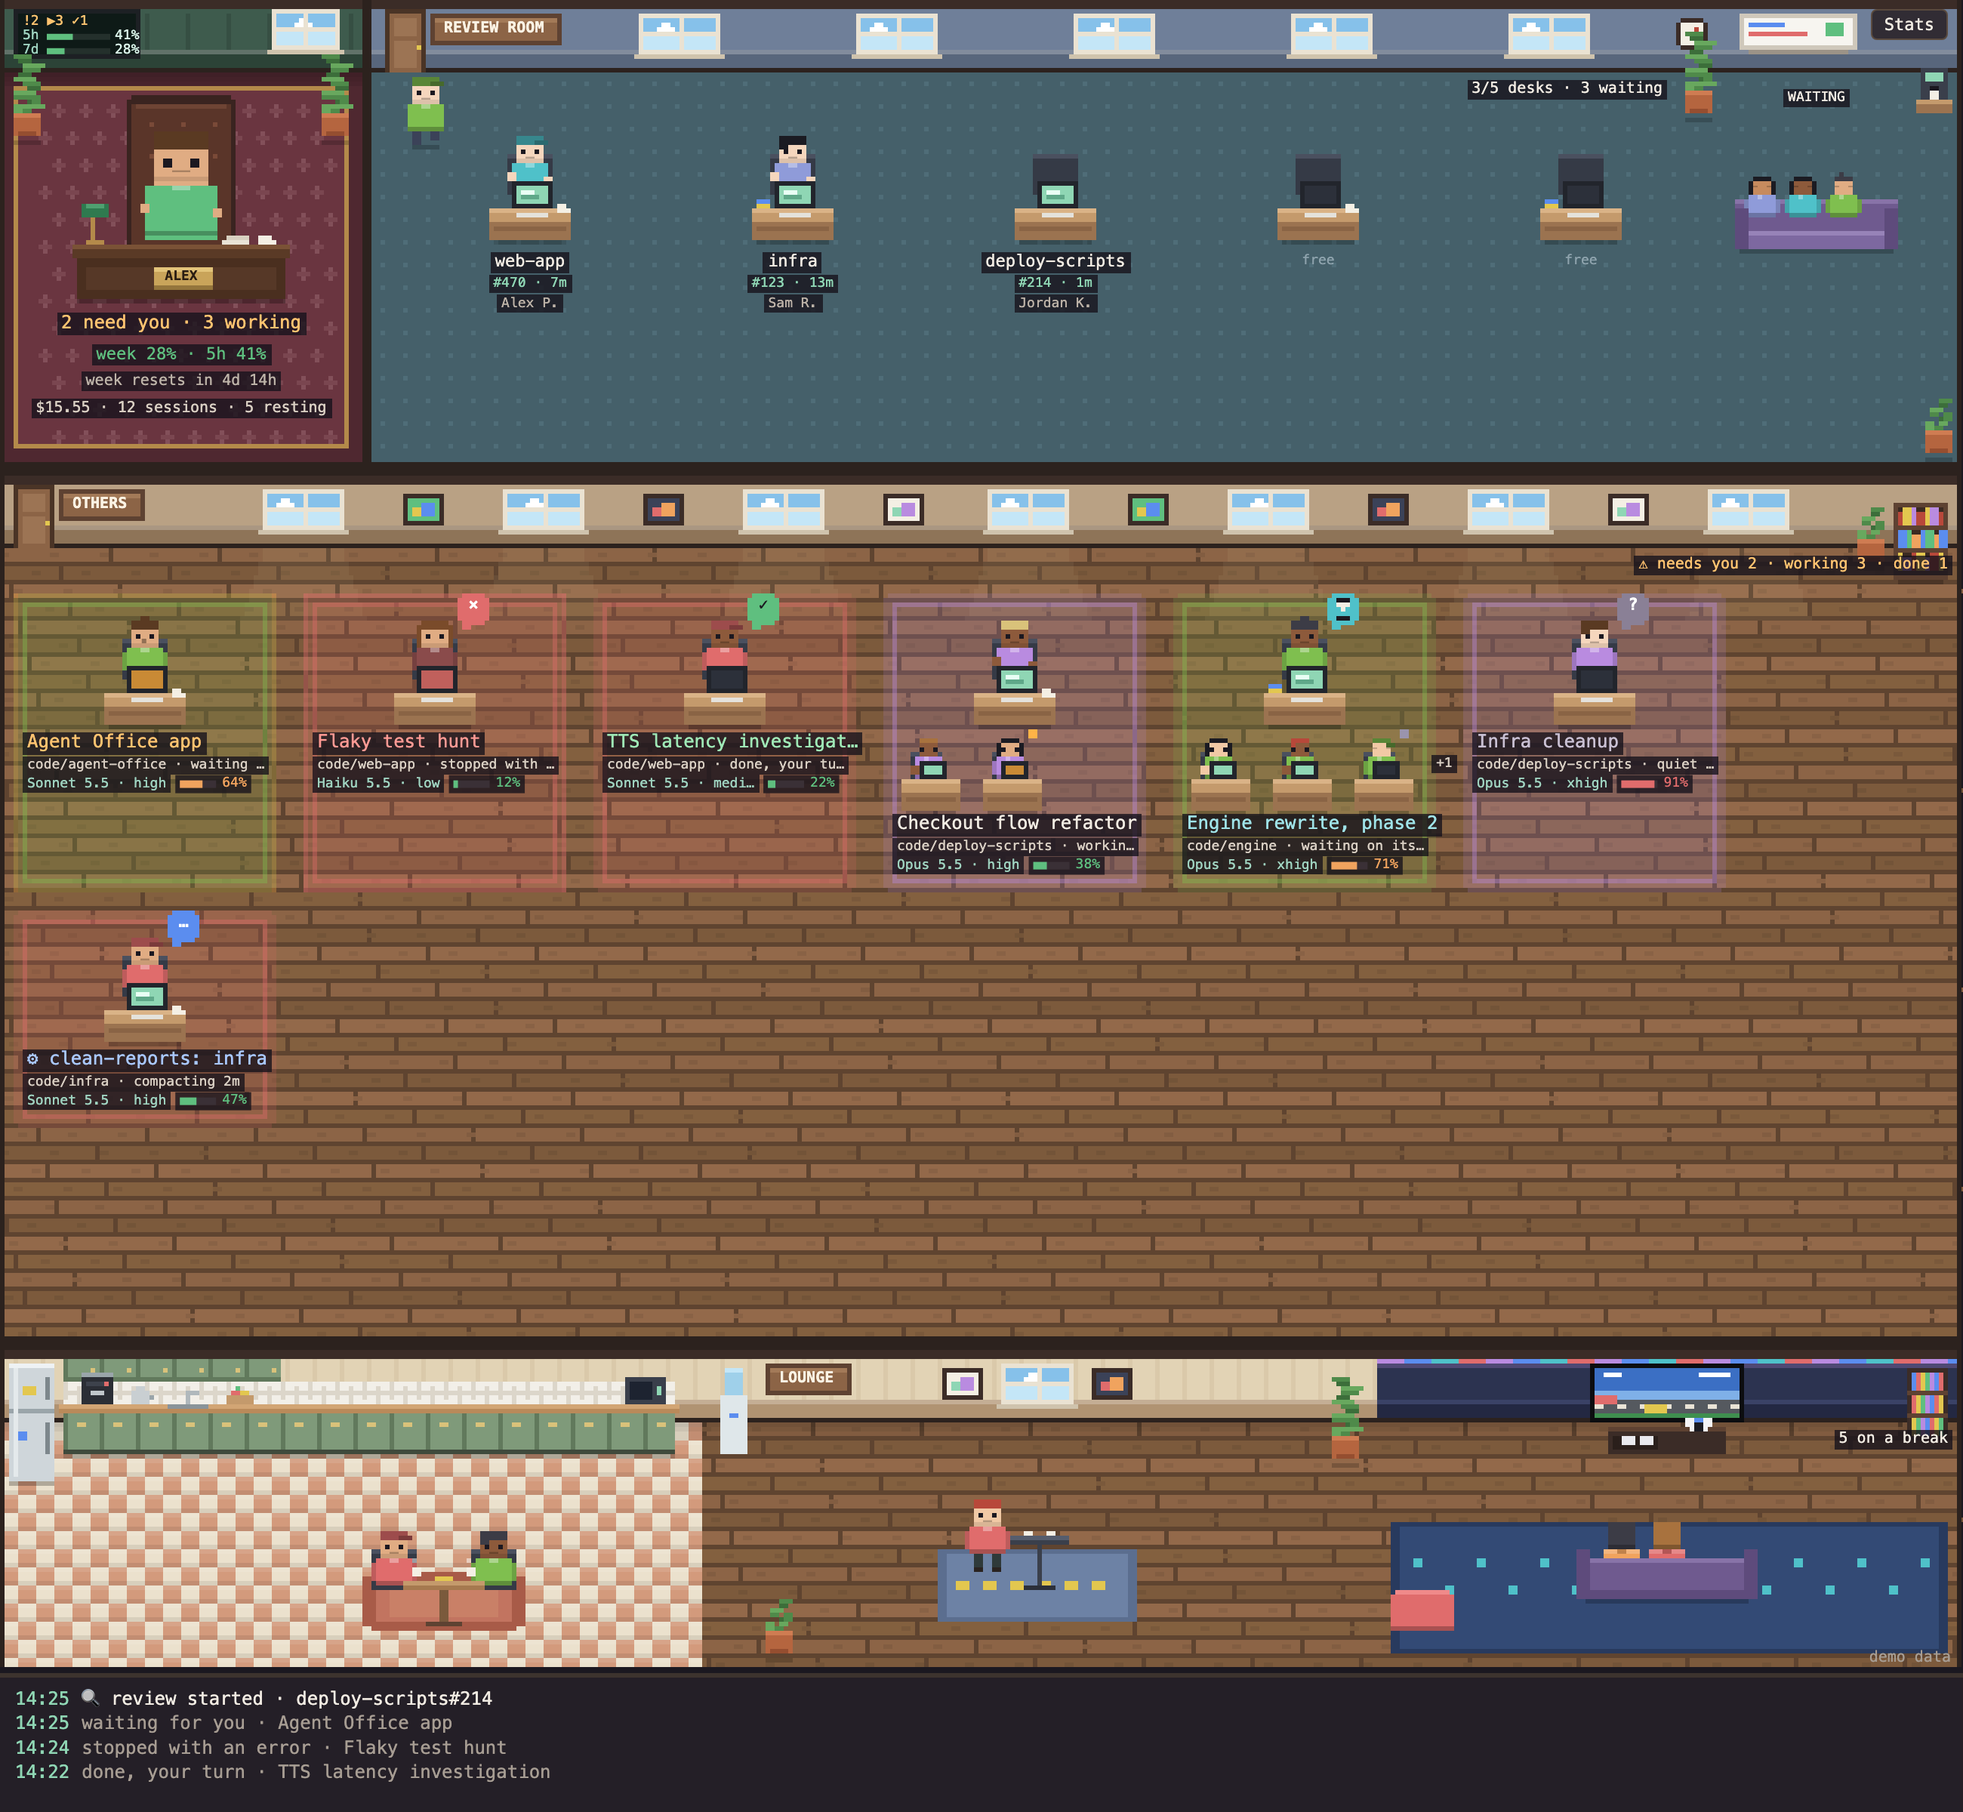
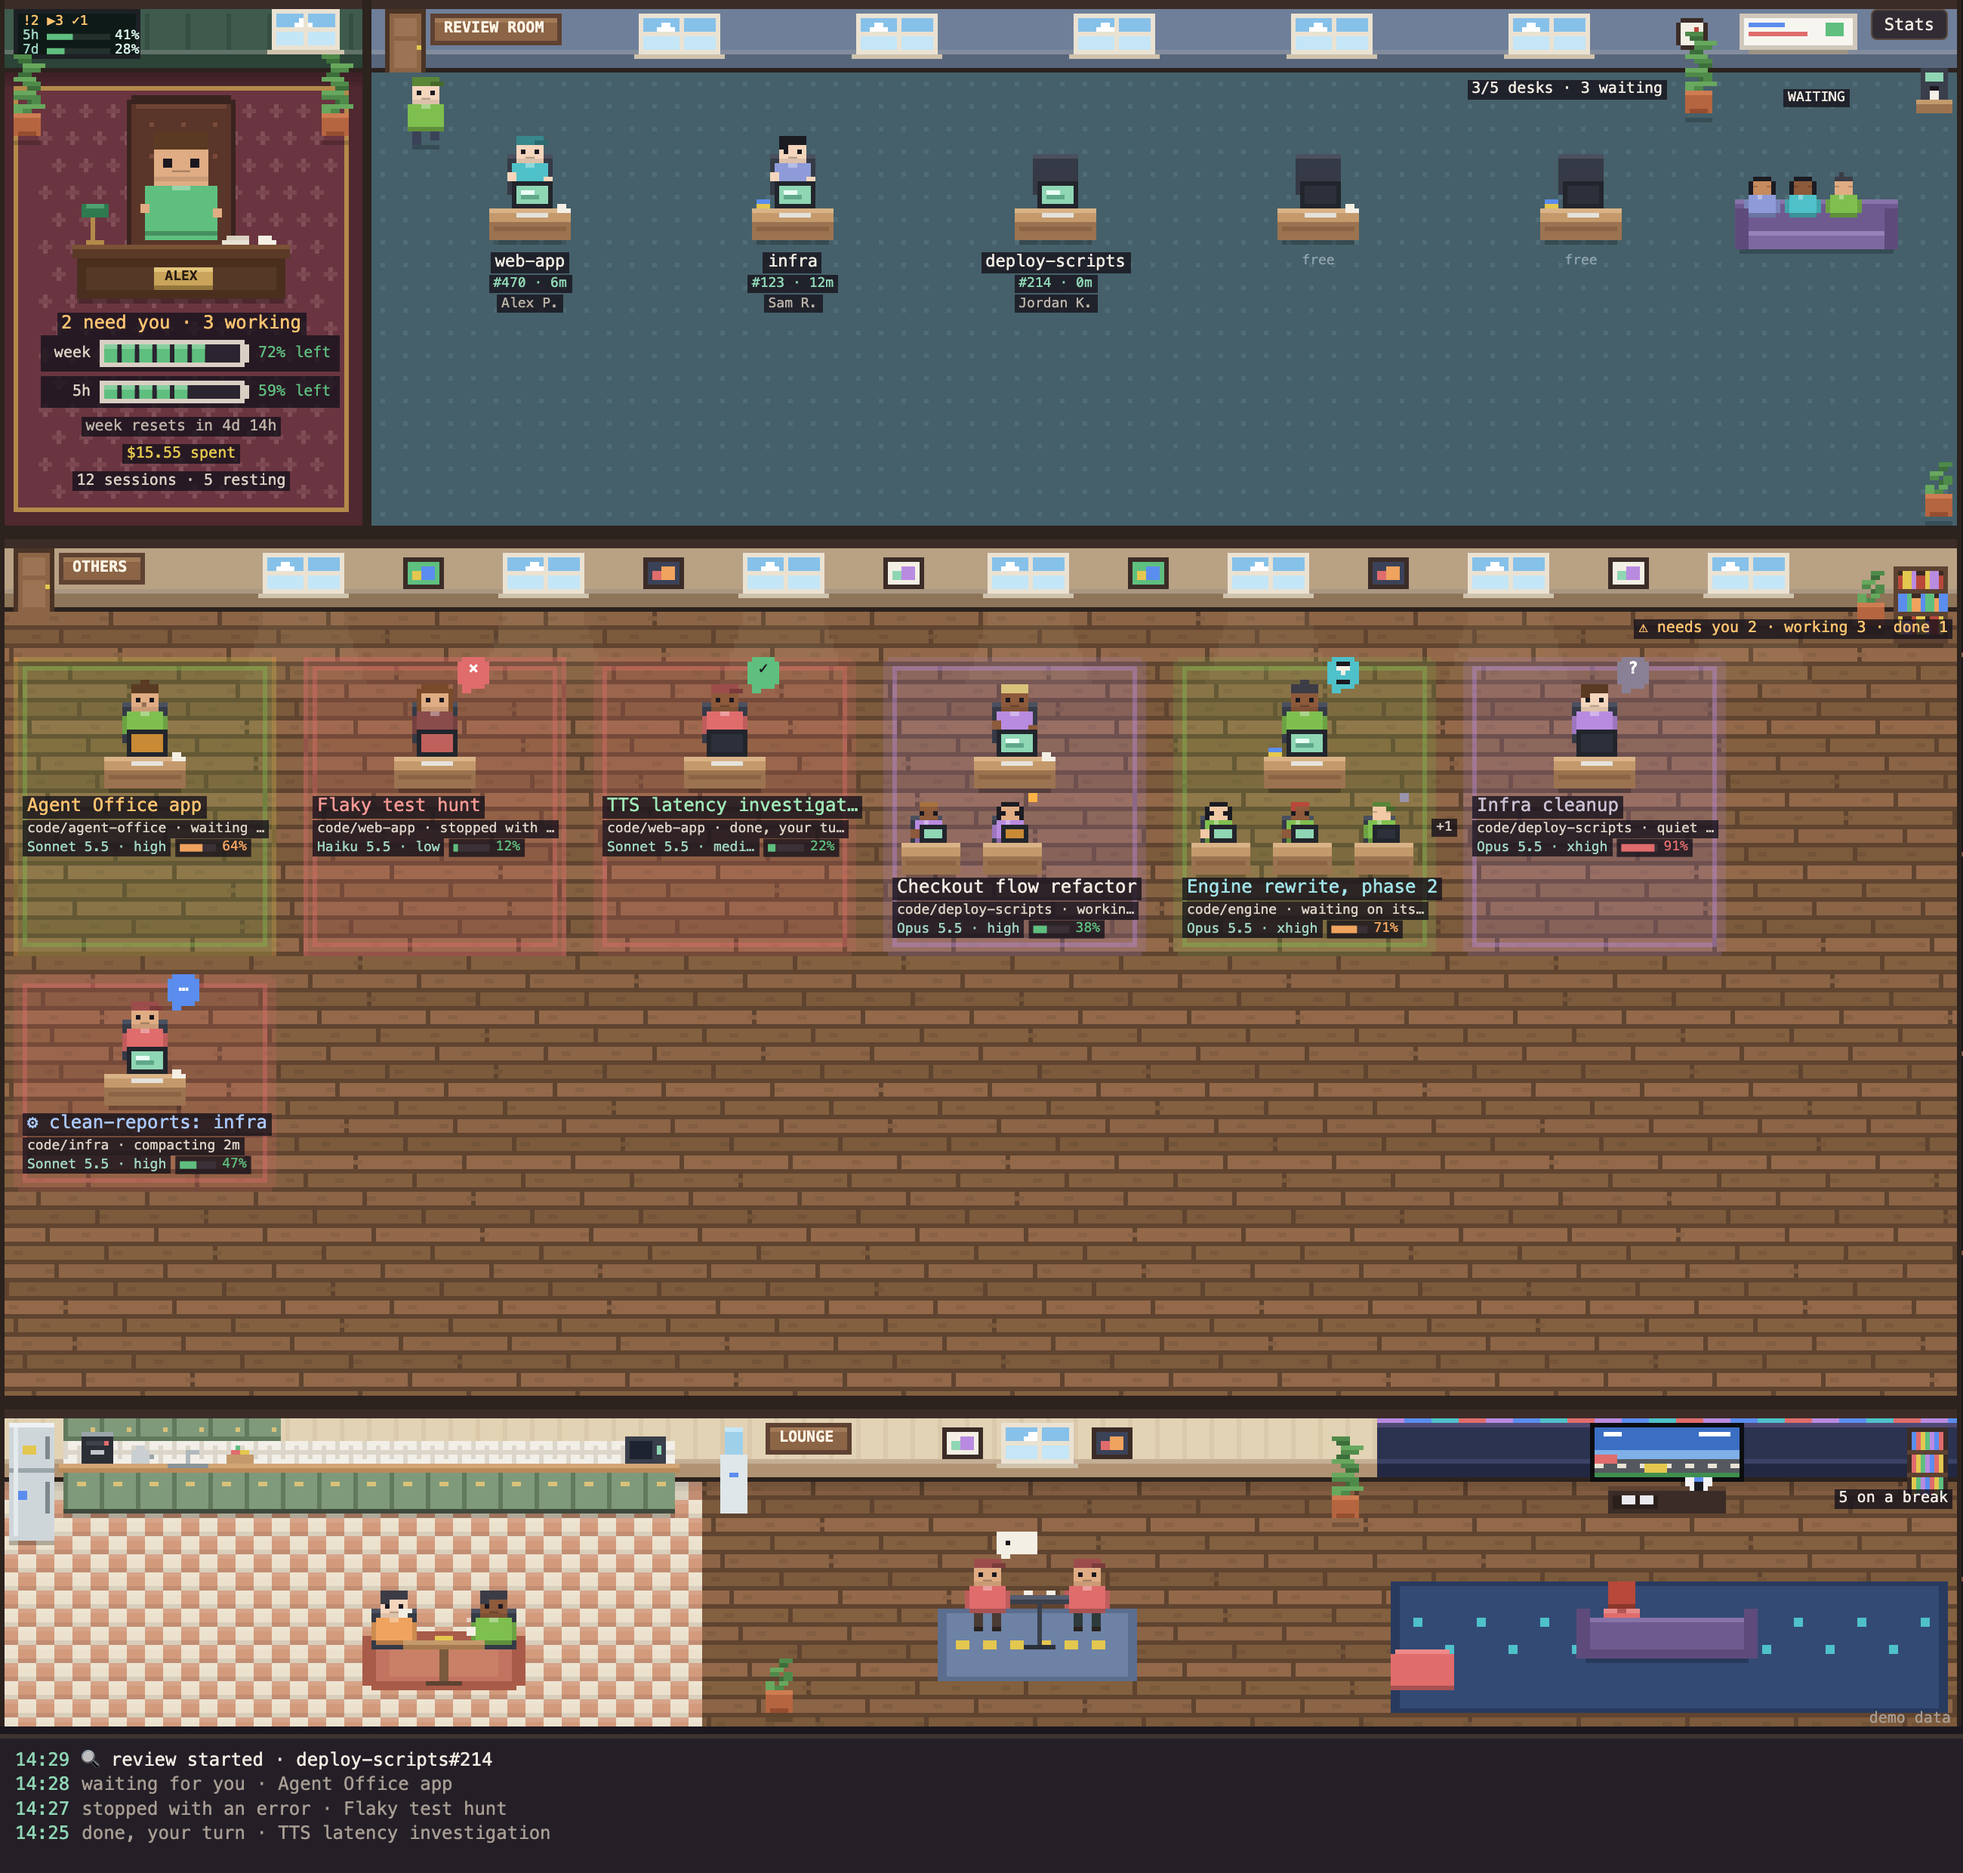
Manager: plan usage as batteries
Weekly and 5-hour usage are drawn as segmented batteries showing what is left, green, then
orange under 40%, red under 15% with the last segment blinking. The room is taller so every
line fits.

diff --git a/web/office.html b/web/office.html
@@ -503,7 +503,7 @@ const STATE_WORD = { background: "waiting on its subagents", waiting: "waiting f
 
 function layout() {
   const W = Math.max(320, wrap.clientWidth), cols = Math.floor(W / P);
-  const reviewH = snap.manager ? 108 : 82, teamW = 64, loungeH = 70;
+  const reviewH = snap.manager ? 116 : 82, teamW = 64, loungeH = 70;
   const perRow = Math.max(1, Math.floor((cols - 8) / teamW));
   const rowsOf = [];
   snap.others.forEach((s, k) => { const r = Math.floor(k / perRow); rowsOf[r] = rowsOf[r] || []; rowsOf[r].push(s); });
@@ -942,6 +942,22 @@ function paintManager(L, sky) {
   px(plx, deskY + 5, pw, 5, "#c9a45a"); px(plx, deskY + 5, pw, 1, "#e3c47a"); px(plx, deskY + 9, pw, 1, "#94753c");
   text(clip(name, Math.floor((pw - 4) * P / 5.6)), m.cx * P, (deskY + 5.6) * P, "#2a1d12", 9, "center", "bold");
 }
+// a battery for one plan window, centred on cx: segments show what is left, the colour warns as
+// it runs low, and the text says how much is left
+function battery(cx, y, name, used, h, short) {
+  const left = Math.max(0, Math.min(100, 100 - (used || 0))), w = 32, x = cx - 15, segs = 8, sw = (w - 2 - (segs - 1)) / segs;
+  const c = left > 40 ? "#5fbf7f" : left > 15 ? "#f0a35e" : "#e06c6c";
+  g.fillStyle = "#17131bcc"; g.fillRect((x - 13) * P, (y - 1) * P, (w + (short ? 27 : 34)) * P, (h + 2) * P);
+  text(name, (x - 2) * P, (y + h / 2) * P - 5, "#d9cfc3", 10, "right");
+  px(x, y, w, h, "#d9cfc3"); px(x + 1, y + 1, w - 2, h - 2, "#2a2530"); px(x + w, y + 1, 1, h - 2, "#d9cfc3");
+  const full = Math.ceil(left / 100 * segs - 1e-9);
+  for (let k = 0; k < full; k++) {
+    const blink = k === full - 1 && left <= 15 && frame % 2 && !energy;
+    px(x + 1 + k * (sw + 1), y + 1, sw, h - 2, blink ? "#7a3434" : c);
+    px(x + 1 + k * (sw + 1), y + 1, sw, 1, blink ? "#7a3434" : shade(c, 0.25));
+  }
+  text(Math.round(left) + (short ? "%" : "% left"), (x + w + 3) * P, (y + h / 2) * P - 5, c, 10, "left");
+}
 function drawManager(L) {
   const m = managerGeo(L), c = managerCounts(), lim = planLimits(), mw = L.mw;
   // the wall screen: who needs you, then plan usage
@@ -968,13 +984,14 @@ function drawManager(L) {
   if (c.working) parts.push(`${c.working} working`);
   label(parts.join(" · ") || "all quiet", m.cx * P, (m.deskY + 15.5) * P, c.needs ? "#ffc370" : "#f1ebe2", 12, "center");
   const wk = lim.find(l => l.kind === "seven_day"), fh = lim.find(l => l.kind === "five_hour");
-  const use = [wk && `week ${wk.percentUsed}%`, fh && `5h ${fh.percentUsed}%`].filter(Boolean).join(" · ");
-  const worst = Math.max(wk ? wk.percentUsed : 0, fh ? fh.percentUsed : 0);
-  label(use || "plan usage: needs the mod", m.cx * P, (m.deskY + 22.5) * P, use ? ctxColor(worst) : "#8ea3ad", 11, "center");
-  if (wk && wk.resetsAt) label("week " + untilText(wk.resetsAt), m.cx * P, (m.deskY + 28.5) * P, "#bdb3a8", 10, "center");
+  // plan usage as batteries: what is LEFT of each window, draining as you use it
+  let ly = m.deskY + 21;
+  const rows = [[wk, "week", 6], [fh, "5h", 5]].filter(r => r[0]);
+  for (const [l, name, h] of rows) { battery(m.cx - (L.mw < 76 ? 0 : 3), ly, name, l.percentUsed, h, L.mw < 76); ly += h + 3; }
+  if (!rows.length) { label("plan usage: needs the mod", m.cx * P, (ly + 1) * P, "#8ea3ad", 10, "center"); ly += 6; }
+  if (wk && wk.resetsAt) { label("week " + untilText(wk.resetsAt), m.cx * P, (ly + 0.5) * P, "#bdb3a8", 10, "center"); ly += 6; }
   const lives = snap.all.map(s => s.live).filter(Boolean), cost = lives.reduce((t, l) => t + (l.costUsd || 0), 0);
-  const subsN = snap.all.reduce((t, s) => t + agentsOf(s).length, 0);
-  let ly = m.deskY + (wk && wk.resetsAt ? 34.5 : 28.5);
+  ly += 0.5;
   if (lives.length) { label("$" + cost.toFixed(2) + " spent", m.cx * P, ly * P, "#e3c74f", 10, "center"); ly += 6; }
   label([`${snap.all.length} session${snap.all.length === 1 ? "" : "s"}`, snap.lounge.length ? `${snap.lounge.length} resting` : ""].filter(Boolean).join(" · "),
     m.cx * P, ly * P, "#d9cfc3", 10, "center");

diff --git a/README.md b/README.md
@@ -60,8 +60,9 @@ Missing a prerequisite: `xcode-select --install` for the command-line tools, `br
 - **Manager's room** (optional, top left): you, at your desk. A screen on the wall counts the
   sessions that need you, are working or are done, with your plan usage (5-hour and 7-day) when
   the companion mod reports it; an orange **!** over your head when someone needs you. Under the
-  desk: who needs you and who is working, your weekly and 5-hour usage with when the week
-  resets, and what the open sessions have cost. Click it
+  desk: who needs you and who is working, your weekly and 5-hour usage as batteries that drain
+  as you use them (orange, then red and blinking as they run low), when the week resets, and
+  what the open sessions have cost. Click it
   for the stats screen. Set it up with `manager` under *Configuration*.
 - **Lounge**: where agents with nothing to do go. A session that has been idle (or done for over 30
   minutes) leaves its desk for the lounge and keeps itself busy there: it makes a coffee at the machine,
